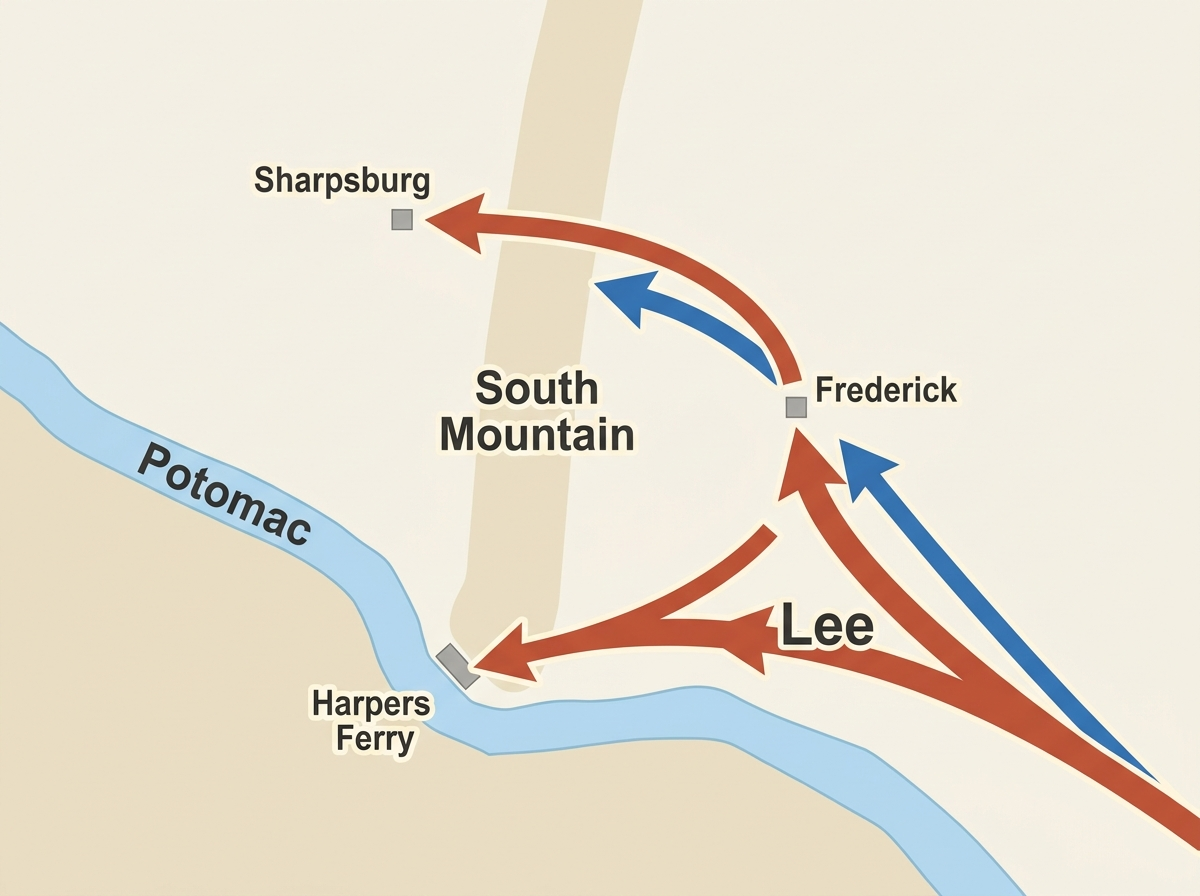
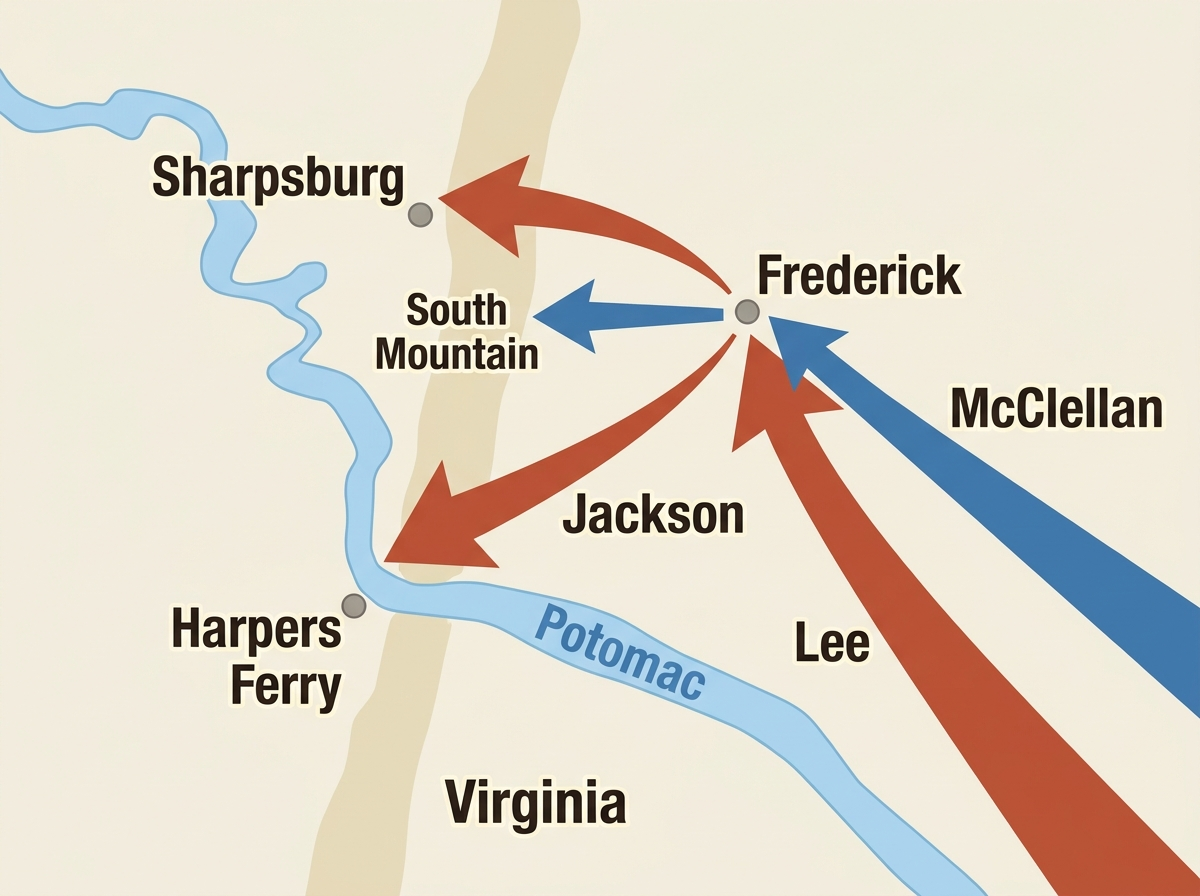
fix(war): Antietam campaign map — Jackson (not Lee) to Harpers Ferry, show the river crossing, label McClellan
Map review feedback on the pilot: the Harpers Ferry detachment was Jackson's
wing, not Lee's; Lee's crossing of the Potomac wasn't shown; and Jackson +
McClellan weren't labeled. Regenerated: Lee crosses from Virginia → Frederick →
west over South Mountain to Sharpsburg; a separate Jackson arrow recrosses the
Potomac to Harpers Ferry; McClellan labeled on the blue pursuit. Operational map
carries 8 labels (cap raised in its prompt section), every named person/place
shown. Carries forward as a map-strand rule: attribute detached movements to the
right commander, show river crossings, label every named commander.

diff --git a/map-prompts/war/antietam.md b/map-prompts/war/antietam.md
@@ -23,19 +23,19 @@ copied from `wilsons-creek.md` rule 4, 2026-06-01).
 
 September 1862 — Lee's first invasion of the North, the Maryland Campaign. A wide operational march map (not a battlefield close-up).
 
-Terrain, left (west) to right (east):
-- A light-blue river runs along the BOTTOM of the map from the lower-left, bending southeast and off the lower-right edge, labeled "Potomac" — the border the armies cross.
-- A small gray town marker labeled "Harpers Ferry" sits ON the river in the lower-left, where it bends.
-- A pale-tan mountain ridge runs vertically (north–south) down the CENTER of the map, labeled "South Mountain" — the long barrier between the two armies.
-- A small gray town marker labeled "Frederick" sits to the RIGHT (east) of the ridge, in open ground.
-- A small gray town marker labeled "Sharpsburg" sits to the LEFT (west) of the ridge, near the top-center, close to the Potomac.
+Terrain:
+- A light-blue river runs across the LOWER HALF of the map, entering from the left edge and bending southeast off the lower-right edge, labeled "Potomac". The land BELOW the river (south) is Virginia; the land ABOVE it (north) is Maryland.
+- A small gray town marker labeled "Harpers Ferry" sits ON the river toward the lower-left, where it bends.
+- A pale-tan mountain ridge runs vertically (north–south) down the CENTER-LEFT, labeled "South Mountain".
+- A small gray town marker labeled "Frederick" sits to the RIGHT (east) of the ridge, north of the river, in open ground.
+- A small gray town marker labeled "Sharpsburg" near the TOP-CENTER, west of South Mountain, close to the river.
 
-Movements:
-- One bold rust-red arrow, labeled "Lee", crosses the Potomac from the lower-right, curves up to Frederick, then bends WEST across South Mountain to Sharpsburg — the main Confederate march.
-- A shorter rust-red branch splits off that arrow near Frederick and curves down to the southwest to Harpers Ferry (leave this branch unlabeled).
-- One bold BLUE arrow (no label) follows from the lower-right behind Lee, through Frederick, and pushes WEST against South Mountain — McClellan's pursuit forcing the passes.
+Movements (three arrows, each clearly labeled):
+- "Lee": one bold rust-red arrow that BEGINS in the lower-right BELOW the Potomac (the Virginia side), CROSSES the river heading north to Frederick, then bends WEST across South Mountain to Sharpsburg. The river crossing must be clearly visible — the arrow starts south of the blue river and passes over it.
+- "Jackson": a second bold rust-red arrow that branches off near Frederick, heads southwest, RECROSSES the Potomac, and ends at Harpers Ferry.
+- "McClellan": one bold BLUE arrow that follows from the lower-right (southeast), behind Lee, up to Frederick and then pushes WEST against South Mountain.
 
-Six labels only: Potomac, Harpers Ferry, South Mountain, Frederick, Sharpsburg, Lee. Nothing else.
+This operational map carries EIGHT labels (more than the usual six is allowed here) — keep each one BIG, bold, and spread over open pale ground: Potomac, Harpers Ferry, South Mountain, Frederick, Sharpsburg, Lee, Jackson, McClellan. Nothing else.
 
 ## Map antietam-cornfield
 
